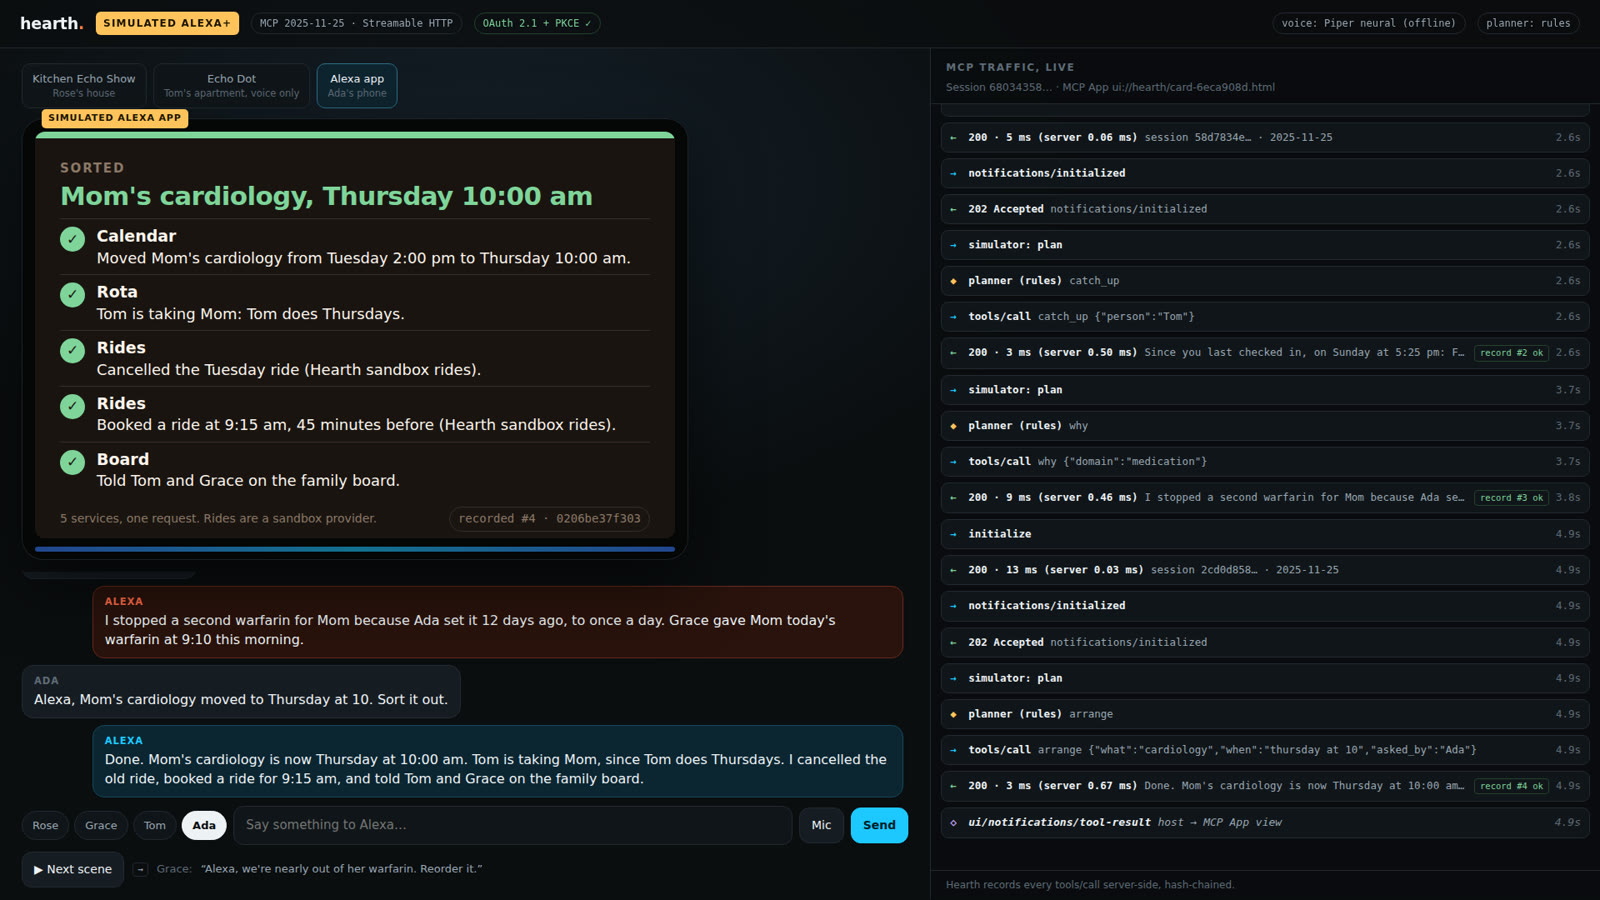
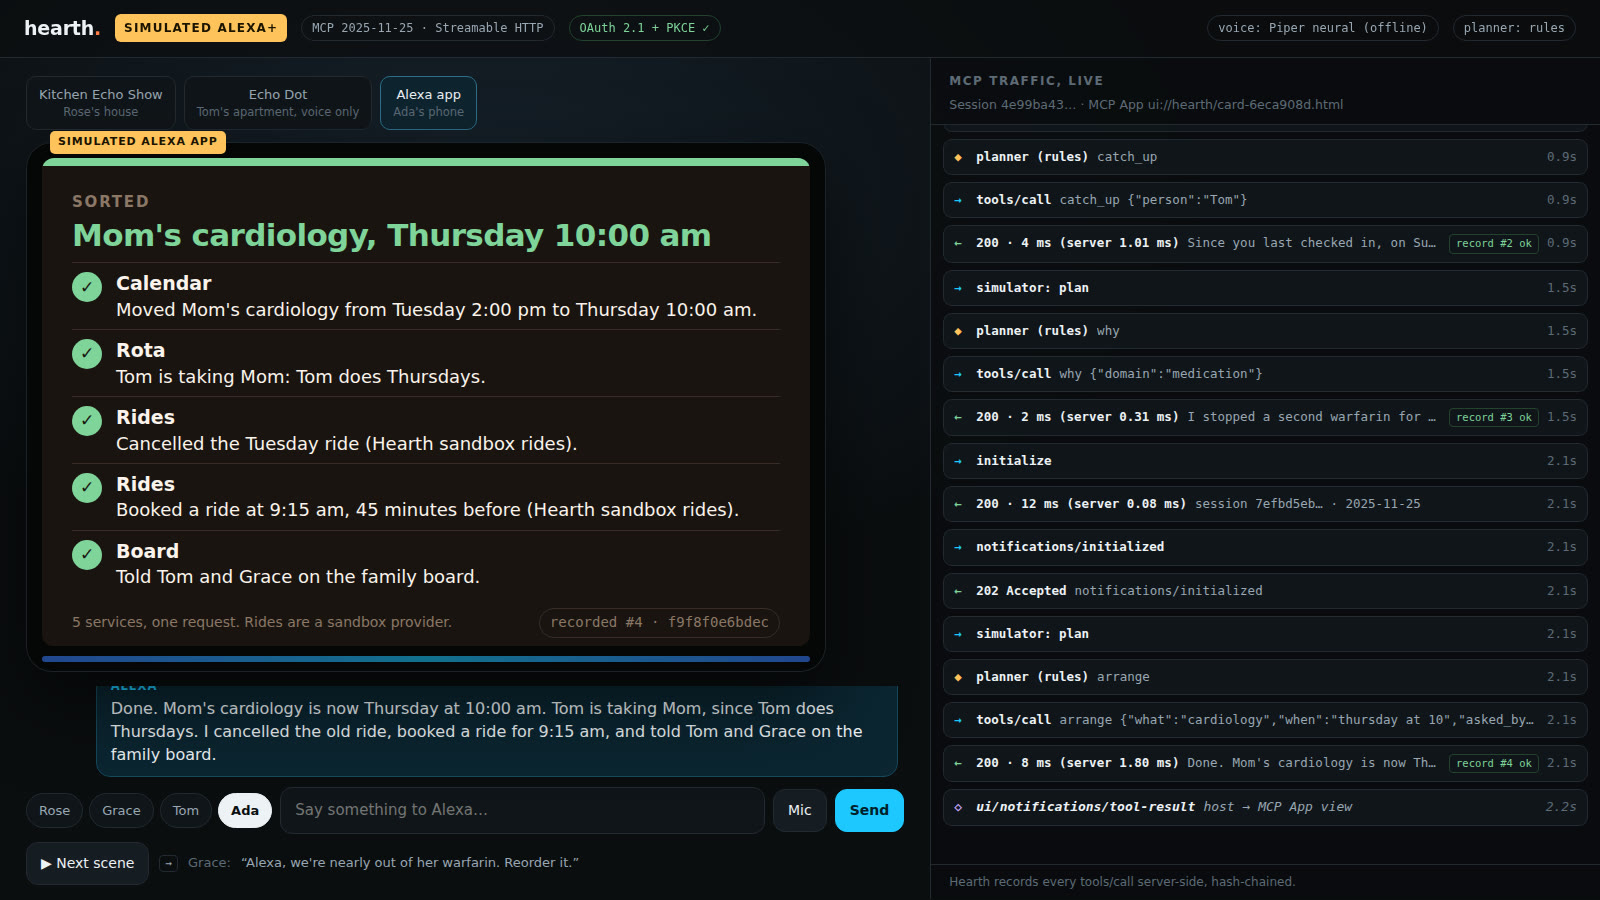
demo: rehearse every scene in a browser, and fresh README images
demo/shots.py drives the real /alexa page headless through all nine
scenes against a running server, prints what Alexa said, screenshots each
one, and fails on any page error. The README images come from it.

diff --git a/demo/shots.py b/demo/shots.py
@@ -1,0 +1,46 @@
+"""Play every scene on the simulated Alexa+ page in a headless browser and
+screenshot each one: a rehearsal of the video, and the README's images.
+
+It drives the real /alexa page against a running server (OAuth, MCP session,
+tools/call, MCP App), muted. A scene that errors fails the run.
+
+    pip install playwright && python -m playwright install chromium
+    uvicorn hearth.app:app --port 8765 &      # HEARTH_ISSUER=http://localhost:8765
+    python3 demo/shots.py http://localhost:8765 out/shots
+"""
+import asyncio
+import os
+import sys
+
+from playwright.async_api import async_playwright
+
+NAMES = ["hold-on-rose", "catch-up", "why", "sort-it-out", "reorder", "paid",
+         "coffee", "antibiotics", "record"]
+
+
+async def main(base, out):
+    os.makedirs(out, exist_ok=True)
+    async with async_playwright() as p:
+        browser = await p.chromium.launch()
+        page = await browser.new_page(viewport={"width": 1600, "height": 900})
+        errors = []
+        page.on("pageerror", lambda e: errors.append(str(e)))
+        await page.goto(f"{base}/alexa?mute=1")
+        await page.wait_for_selector("#wiresub:has-text('Session')", timeout=20000)
+        await page.screenshot(path=os.path.join(out, "00-connected.png"))
+        for i, name in enumerate(NAMES, 1):
+            await page.evaluate("nextScene()")
+            await page.wait_for_function("!busy", timeout=30000)
+            await page.wait_for_timeout(400)          # let the card settle
+            await page.screenshot(path=os.path.join(out, f"{i:02d}-{name}.png"))
+            said = await page.evaluate(
+                "[...document.querySelectorAll('#talk .alexa')].pop()?.innerText || ''")
+            print(f"{i:02d} {name}: {said.replace(chr(10), ' ')[:150]}")
+        await browser.close()
+    if errors:
+        raise SystemExit(f"page errors: {errors}")
+
+
+if __name__ == "__main__":
+    asyncio.run(main(sys.argv[1].rstrip("/") if len(sys.argv) > 1 else "http://localhost:8765",
+                     sys.argv[2] if len(sys.argv) > 2 else "shots"))
